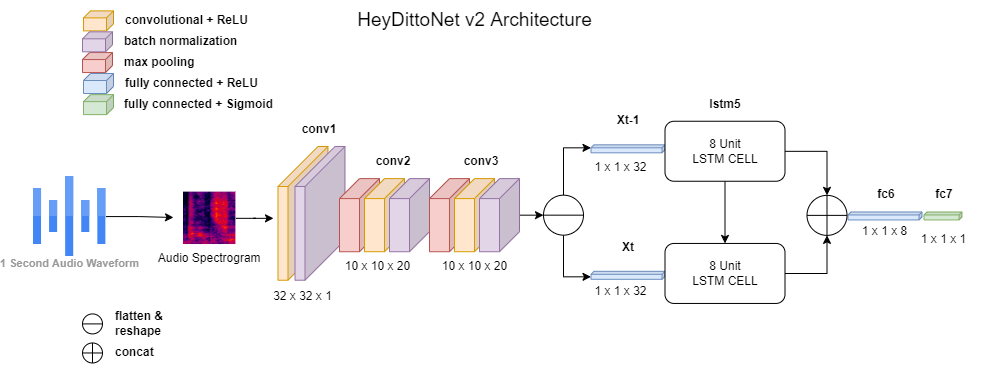
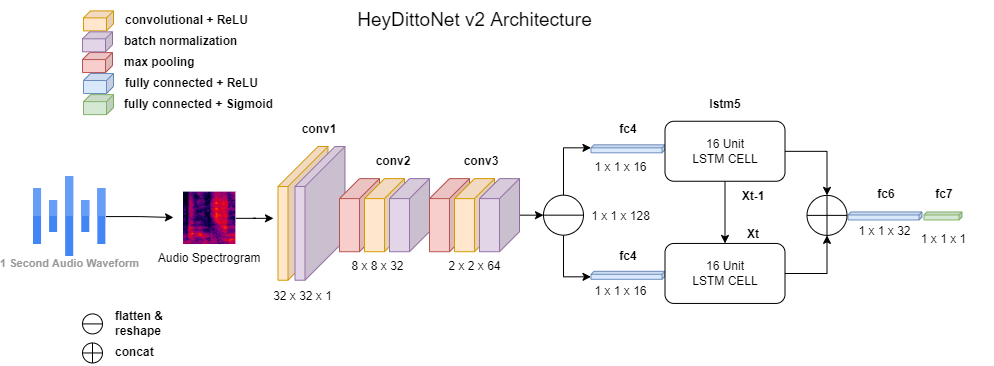
diagrams

diff --git a/main.py b/main.py
@@ -30,8 +30,8 @@ os.environ['TF_CPP_MIN_LOG_LEVEL'] = '3'
 TRAIN = False
 REINFORCE = False
 TFLITE = True
-MODEL_SELECT = 0  # 0 for CNN, 1 for CNN-LSTM
-MODEL = ['CNN', 'CNN-LSTM'][MODEL_SELECT]
+MODEL_SELECT = 0  # 0 for HeyDittoNet-v2, 1 for HeyDittoNet-v1
+MODEL = ['HeyDittoNet-v1', 'HeyDittoNet-v2'][MODEL_SELECT]
 RATE = 16000
 SENSITIVITY = 0.99
 
@@ -41,7 +41,7 @@ class HeyDittoNet:
     HeyDittoNet is a model for recognizing "Hey Ditto" from machine's default mic.
     '''
 
-    def __init__(self, train=False, model_type='CNN-LSTM', tflite=False, path=''):
+    def __init__(self, train=False, model_type='HeyDittoNet-v1', tflite=False, path=''):
         # self.q = queue.Queue()
         self.train = train
         self.model_type = model_type
@@ -58,7 +58,7 @@ class HeyDittoNet:
 
     def load_data(self):
         try:
-            if MODEL == 'CNN-LSTM':
+            if MODEL == 'HeyDittoNet-v1':
                 self.x = np.load('data/x_data_lstm.npy', allow_pickle=True)
                 self.y = np.load('data/y_data_lstm.npy', allow_pickle=True)
             else:
@@ -92,7 +92,7 @@ class HeyDittoNet:
                 0]["index"]
 
     def create_model(self):
-        if self.model_type == 'CNN':
+        if self.model_type == 'HeyDittoNet-v2':
             self.early_stop_callback = tf.keras.callbacks.EarlyStopping(
                 monitor='loss', patience=3)
             xshape = self.x.shape[1:]
@@ -119,7 +119,7 @@ class HeyDittoNet:
                 layers.Dense(32, activation='relu'),
                 layers.Reshape((2, 16)),
 
-                layers.LSTM(16, input_shape=(None, 2, 16), activation='relu'),
+                layers.LSTM(8, input_shape=(None, 2, 16), activation='relu'),
                 # layers.Dropout(0.3),
 
                 layers.Dense(32, activation='relu'),
@@ -132,7 +132,7 @@ class HeyDittoNet:
             model.compile(loss='binary_crossentropy',
                           optimizer='adam', metrics='accuracy')
             return model
-        elif self.model_type == 'CNN-LSTM':
+        elif self.model_type == 'HeyDittoNet-v1':
             self.early_stop_callback = tf.keras.callbacks.EarlyStopping(
                 monitor='loss', patience=10, restore_best_weights=True)
 
@@ -180,7 +180,7 @@ class HeyDittoNet:
             return model
 
     def train_model(self, model):
-        if self.model_type == 'CNN':
+        if self.model_type == 'HeyDittoNet-v2':
             epochs = 30
             batch_size = 32
         else:
@@ -223,12 +223,12 @@ class HeyDittoNet:
         if len(self.buffer) >= RATE and self.frames == 0:
             self.frames += frames
             self.buffer = self.buffer[-RATE:]
-            if self.model_type == 'CNN-LSTM':
+            if self.model_type == 'HeyDittoNet-v1':
                 spect = self.get_spectrograms(self.buffer)
             else:
                 spect = self.get_spectrogram(self.buffer)
             if self.tflite:
-                if self.model_type == 'CNN-LSTM':
+                if self.model_type == 'HeyDittoNet-v1':
                     self.interpreter.set_tensor(
                         self.input_index, np.expand_dims(spect, 0))
                     self.interpreter.invoke()
